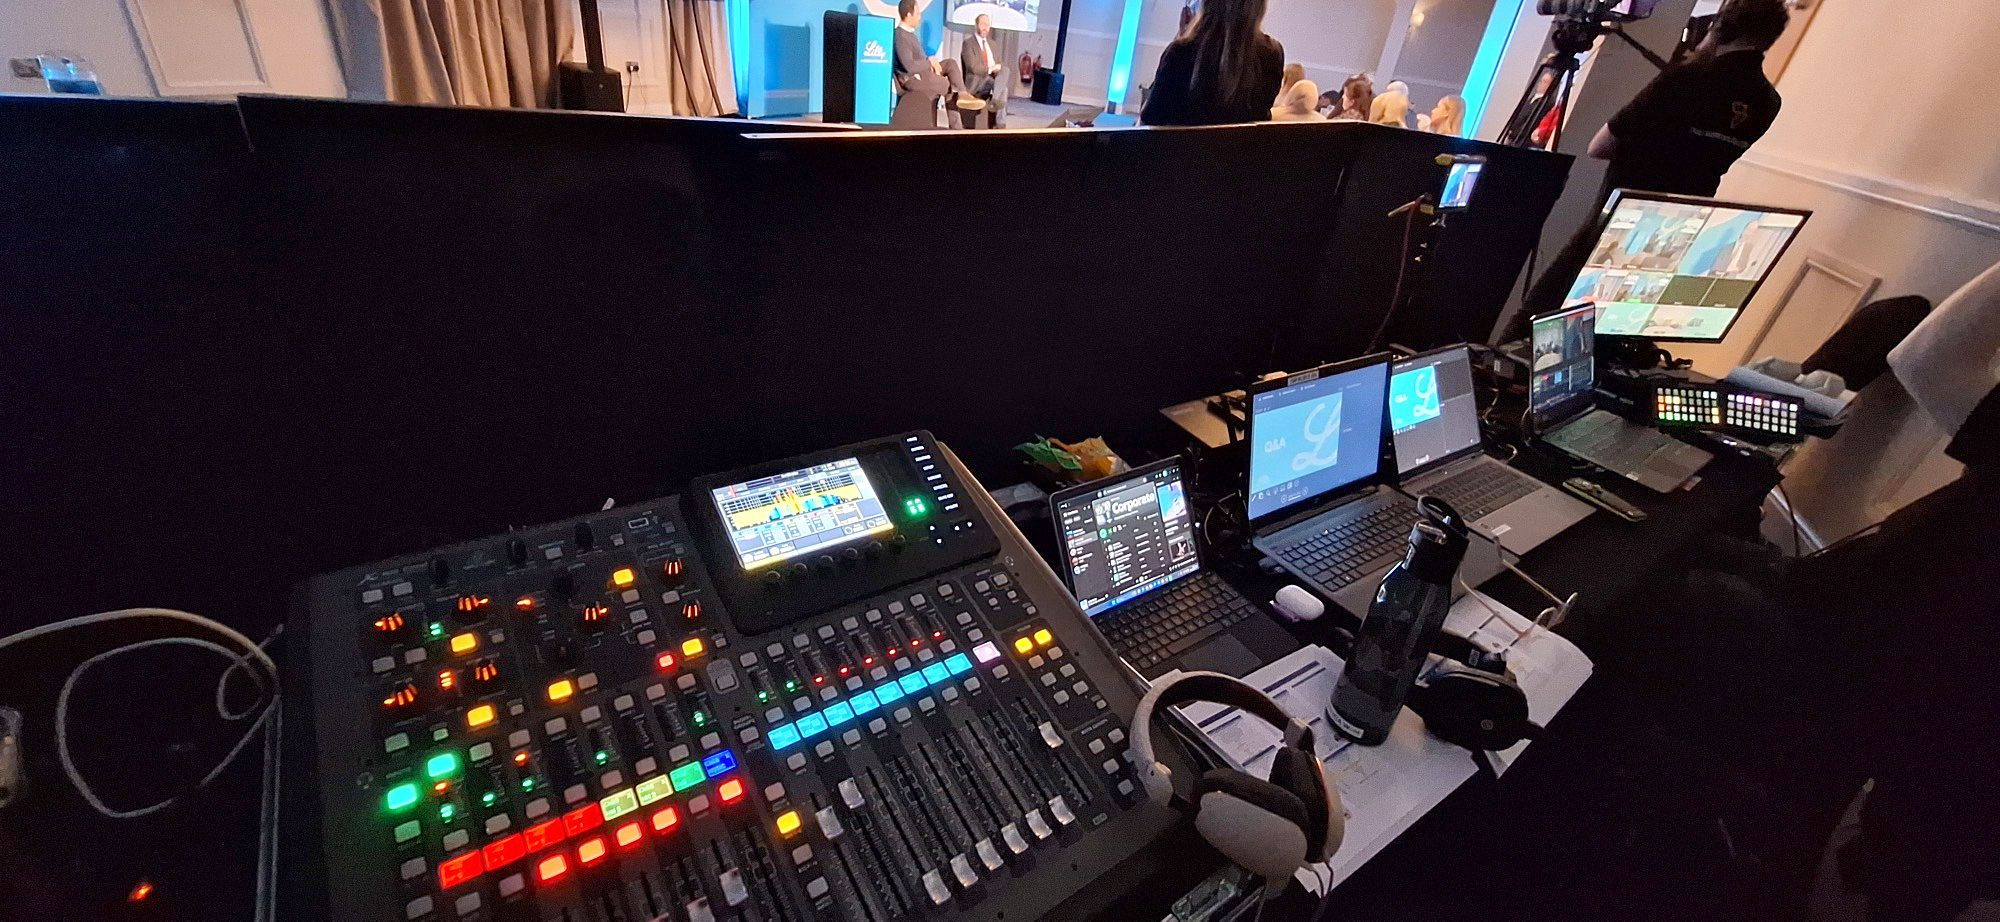
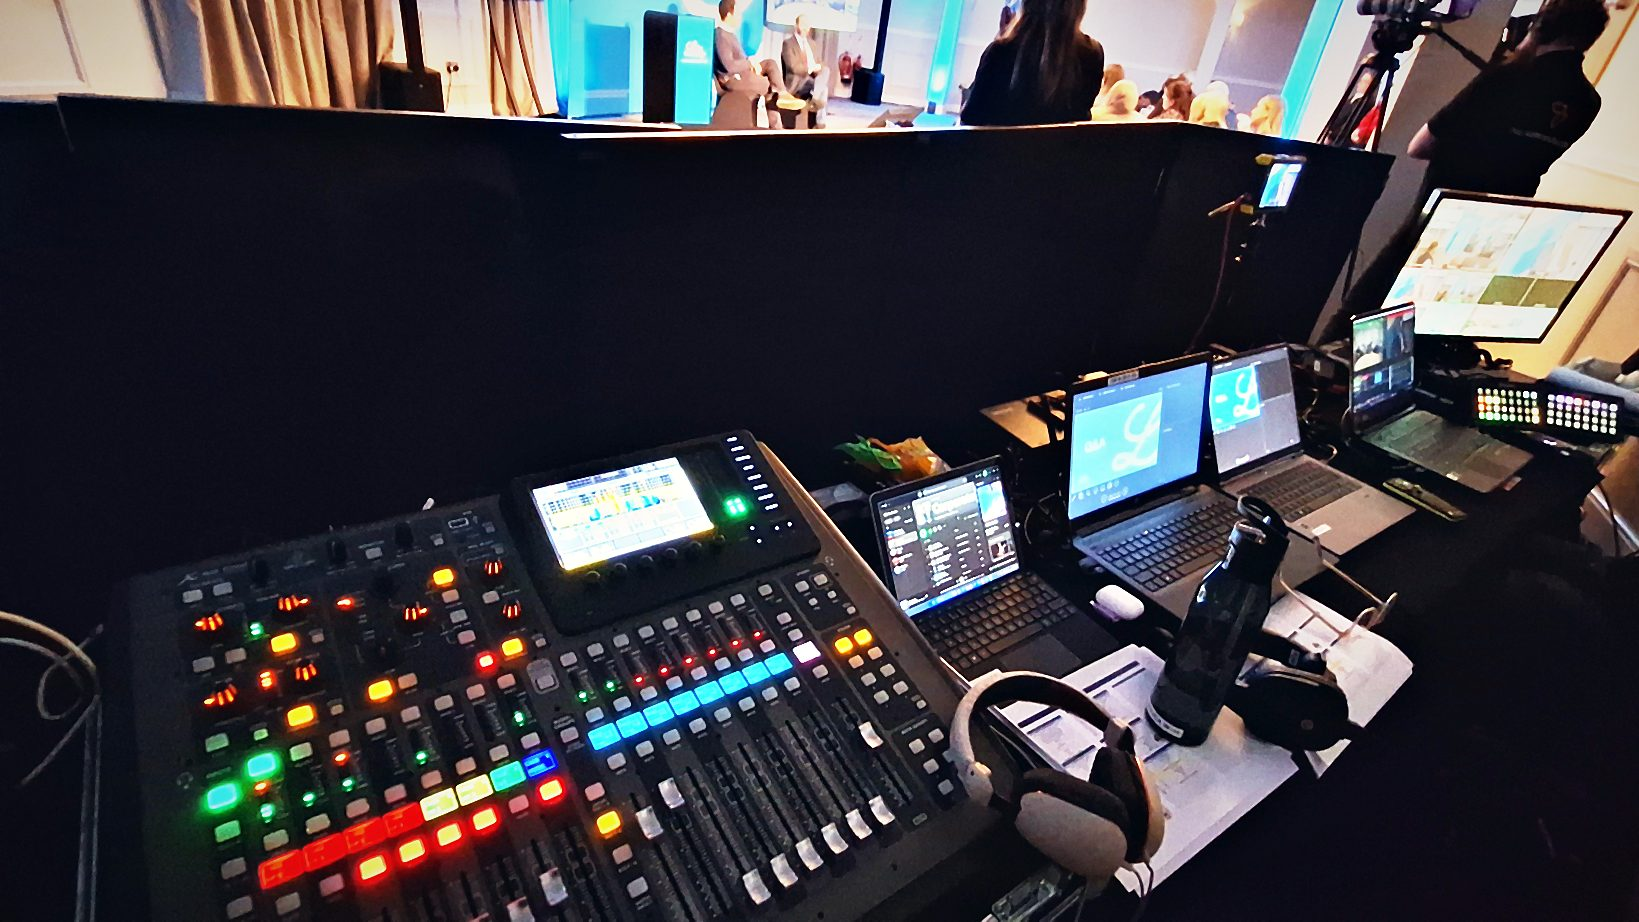
Home page preview: restore signature motion, consistent photo grade
- Particle sculpture (from the original hero) now flows over the photo
  into the HD Events sound wave; scroll aurora and sound ribbons between
  sections are back; Pause motion button; respects reduced motion.
- All photos re-graded with one house style (tools/photo-grade.py):
  neutral white balance, filmic curve, teal shadows, subtle vignette.

Claude-Session: https://claude.ai/code/session_016P7wNt6BcFjmMJ4gcje8kD

diff --git a/public/flair.js b/public/flair.js
@@ -1,0 +1,145 @@
+/* HD Events signature motion for the home page:
+   - the particle sculpture that flows into the HD Events sound wave (over the hero photo)
+   - the scroll aurora that paints light down the page
+   Both adapted from the original app.js. The sound ribbons between sections come from ribbons.js.
+   Respects "reduce motion" and the Pause motion button. */
+(() => {
+  const reduce = matchMedia('(prefers-reduced-motion: reduce)').matches;
+  let paused = reduce;
+  const smooth = x => { x = Math.max(0, Math.min(1, x)); return x * x * (3 - 2 * x); };
+  const mix = (a, b, t) => a + (b - a) * t;
+  const TAU = Math.PI * 2;
+
+  /* ---------- Hero particle sculpture (transparent, over the photo) ---------- */
+  const canvas = document.getElementById('heroWave');
+  const hero = document.querySelector('.hire-hero');
+  const ctx = canvas.getContext('2d');
+  let w, h, dpr, time = 0, elapsed = 0, heroVisible = true;
+  const pointer = { x: 0, y: 0 }, target = { x: 0, y: 0 };
+  const mobile = innerWidth < 800;
+  const COUNT = mobile ? 9000 : 22000;
+  const points = Array.from({ length: COUNT }, (_, i) => ({
+    u: ((i % 320) + Math.random() * .8) / 320 * TAU,
+    v: (Math.floor(i / 320) + Math.random() * .8) / Math.ceil(COUNT / 320) * TAU,
+    r: Math.random(), s: Math.random(),
+  }));
+  const colors = Array.from({ length: 12 }, (_, i) => { const p = i / 11; return `rgb(${Math.round(10 + 155 * p)},${Math.round(235 - 173 * p)},${Math.round(231 + 24 * p)})`; });
+
+  function resize() {
+    w = canvas.clientWidth; h = canvas.clientHeight;
+    dpr = Math.min(devicePixelRatio || 1, 1.6);
+    canvas.width = Math.floor(w * dpr); canvas.height = Math.floor(h * dpr);
+    ctx.setTransform(dpr, 0, 0, dpr, 0, 0);
+  }
+  resize(); addEventListener('resize', resize);
+  hero.addEventListener('pointermove', e => { target.x = (e.clientX / w - .5) * 2; target.y = (e.clientY / h - .5) * 2; });
+  hero.addEventListener('pointerleave', () => { target.x = target.y = 0; });
+
+  function draw() {
+    pointer.x += (target.x - pointer.x) * .04; pointer.y += (target.y - pointer.y) * .04;
+    ctx.clearRect(0, 0, w, h);
+    // Torus, then orbital ribbons, then liquid folds, settling into the flowing HD Events sound wave.
+    const t = reduce ? 16 : Math.min(elapsed, 16);
+    const saturn = smooth((t - 3) / 1.1) * (1 - smooth((t - 8) / 1.2));
+    const vortex = smooth((t - 8) / 1.2) * (1 - smooth((t - 13) / 1.2));
+    const wave = smooth((t - 13) / 1.3);
+    const scale = Math.min(w * (mobile ? .55 : .30), h * .42);
+    const cx = w * (mobile ? .55 : .70), cy = h * (mobile ? .40 : .46);
+    const rot = time * .74 + pointer.x * .3, tilt = .45 + Math.sin(time * .57) * .65 + pointer.y * .2;
+    const buckets = Array.from({ length: 36 }, () => []);
+    for (let i = 0; i < points.length; i++) {
+      const p = points[i], u = p.u, v = p.v;
+      const major = .64 + .11 * Math.sin(u * 3 + time * 1.15) + .04 * Math.cos(v + time), minor = .20 + .075 * Math.cos(u * 3 - time * 1.3 + v * .5);
+      let x = (major + minor * Math.cos(v)) * Math.cos(u), y = (major + minor * Math.cos(v)) * Math.sin(u), z = minor * Math.sin(v);
+      const radius = .62 + (v / TAU) * .48 + .035 * Math.sin(u * 3 + time * 1.3), angle = u + time * 1.65;
+      x = mix(x, radius * Math.cos(angle), saturn); y = mix(y, .045 * Math.sin(v * 3 + u * 2 + time), saturn); z = mix(z, radius * Math.sin(angle), saturn);
+      const fluidAngle = u + .28 * Math.sin(v + time * .8), fluidRadius = .72 + .20 * Math.cos(v + u * 2 - time);
+      x = mix(x, fluidRadius * Math.cos(fluidAngle), vortex); y = mix(y, .30 * Math.sin(u * 2 + time * 1.1) + .18 * Math.sin(v + u), vortex); z = mix(z, .57 * Math.sin(fluidAngle) + .23 * Math.cos(v + u * 2 + time), vortex);
+      let yy = y * Math.cos(tilt) - z * Math.sin(tilt); z = y * Math.sin(tilt) + z * Math.cos(tilt); y = yy;
+      let xx = x * Math.cos(rot) + z * Math.sin(rot); z = -x * Math.sin(rot) + z * Math.cos(rot); x = xx;
+      const wx = (u / TAU - .5) * 3.2, wy = Math.sin(u * 1.6 - time * 1.25 + v * .15) * .3 + Math.cos(v) * .13, wz = Math.sin(v) * .25 + Math.sin(u * 2 - time * .6) * .2;
+      x = mix(x, wx, wave); y = mix(y, wy, wave); z = mix(z, wz, wave);
+      const perspective = 3 / (3 - z);
+      const px = cx + x * scale * perspective, py = cy + y * scale * perspective;
+      const depth = Math.max(0, Math.min(2, Math.floor((z + .6) * 2)));
+      const col = Math.round(((Math.sin(u + v * .22 + time * .4) + 1) / 2) * 11);
+      buckets[depth * 12 + col].push(px, py, (mobile ? .38 : .40) + perspective * .22 + p.r * .23);
+    }
+    for (let d = 0; d < 3; d++) for (let c = 0; c < 12; c++) {
+      const b = buckets[d * 12 + c]; if (!b.length) continue;
+      ctx.fillStyle = colors[c]; ctx.globalAlpha = Math.min(1, .78 + d * .1);
+      ctx.beginPath();
+      for (let k = 0; k < b.length; k += 3) { const size = b[k + 2] * 1.8; ctx.rect(b[k], b[k + 1], size, size); }
+      ctx.fill();
+    }
+    ctx.globalAlpha = 1;
+  }
+  new IntersectionObserver(es => heroVisible = es[0].isIntersecting, { threshold: 0 }).observe(hero);
+
+  /* ---------- Scroll aurora (from the original app.js) ---------- */
+  const aurora = document.getElementById('aurora'), ac = aurora.getContext('2d');
+  let aw, ah, previousScroll = scrollY, auroraPhase = 0, hasScrolled = false, headPage = scrollY + innerHeight * .48, stretch = 0, scrollEnergy = .4, direction = 1, trailClock = 0;
+  const smoke = [];
+  function sizeAurora() { aw = innerWidth; ah = innerHeight; aurora.width = Math.round(aw * .6); aurora.height = Math.round(ah * .6); ac.setTransform(.6, 0, 0, .6, 0, 0); }
+  sizeAurora(); addEventListener('resize', sizeAurora);
+  function paintRibbon(base, phase, extension, opacity, smoky = false) {
+    if (opacity < .002 || base + Math.abs(extension) < -ah || base - Math.abs(extension) > ah * 2) return;
+    for (let strand = 0; strand < (smoky ? 6 : 14); strand++) {
+      const n = smoky ? 6 : 14, spread = (strand / n - .5) * (smoky ? ah * .12 : ah * .055);
+      const gradient = ac.createLinearGradient(0, base - ah * .3, aw, base + ah * .4);
+      gradient.addColorStop(0, 'rgba(0,240,170,0)'); gradient.addColorStop(.22, `rgba(0,235,163,${opacity * .060})`);
+      gradient.addColorStop(.5, `rgba(0,201,232,${opacity * .085})`); gradient.addColorStop(.79, `rgba(145,51,248,${opacity * .085})`);
+      gradient.addColorStop(1, 'rgba(123,30,246,0)');
+      ac.strokeStyle = gradient; ac.lineWidth = smoky ? ah * .085 : 12 + strand * 1.8; ac.beginPath();
+      for (let k = 0; k <= 64; k++) {
+        const x = k / 64 * aw, curve = Math.sin(k / 64 * 5 + phase);
+        const y = base + curve * ah * .18 + Math.sin(k / 64 * 9 - phase * .6) * ah * .055 + spread + extension * Math.pow((curve + 1) * .5, 1.5);
+        if (k === 0) ac.moveTo(x, y); else ac.lineTo(x, y);
+      }
+      ac.stroke();
+    }
+  }
+  function drawAurora(dt = .033) {
+    const delta = scrollY - previousScroll; previousScroll = scrollY; const moving = Math.abs(delta) > .15;
+    ac.clearRect(0, 0, aw, ah); ac.globalCompositeOperation = 'lighter';
+    if (moving) {
+      hasScrolled = true; direction = Math.sign(delta); auroraPhase += delta * .002;
+      headPage = scrollY + ah * (direction > 0 ? .60 : .36);
+      stretch = mix(stretch, direction * Math.min(ah * .65, Math.abs(delta) * 8), .35);
+      scrollEnergy = Math.min(1, scrollEnergy + Math.abs(delta) * .02); trailClock += dt;
+      if (trailClock > .045) { smoke.push({ page: headPage, phase: auroraPhase, stretch, age: 0, strength: scrollEnergy }); trailClock = 0; if (smoke.length > 28) smoke.shift(); }
+    } else { scrollEnergy *= Math.exp(-dt * 1.8); if (!hasScrolled) { auroraPhase += dt * .10; scrollEnergy = .45; } }
+    for (let i = smoke.length - 1; i >= 0; i--) {
+      const puff = smoke[i]; puff.age += dt; if (puff.age > 2.8) { smoke.splice(i, 1); continue; }
+      paintRibbon(puff.page - scrollY, puff.phase, puff.stretch, Math.pow(1 - puff.age / 2.8, 2) * puff.strength * .60, true);
+    }
+    paintRibbon(headPage - scrollY, auroraPhase, stretch, hasScrolled ? scrollEnergy : .55);
+    if (!hasScrolled) paintRibbon(ah * .82, auroraPhase + 2.1, -ah * .2, .25);
+    ac.globalCompositeOperation = 'source-over';
+  }
+
+  /* ---------- One clock for both ---------- */
+  let last = 0, lastPaint = 0;
+  function frame(now) {
+    if (!last) last = now;
+    const delta = Math.min((now - last) / 1000, .1);
+    if (!paused) {
+      time += delta; elapsed += delta;
+      if (now - lastPaint > 30) { if (heroVisible) draw(); drawAurora(Math.min(.1, (now - lastPaint) / 1000)); lastPaint = now; }
+    }
+    last = now; requestAnimationFrame(frame);
+  }
+  draw(); drawAurora(); requestAnimationFrame(frame);
+  addEventListener('scroll', () => { if (paused) drawAurora(); }, { passive: true });
+
+  /* ---------- Pause motion ---------- */
+  const toggle = document.getElementById('motion');
+  function setMotion() {
+    toggle.setAttribute('aria-pressed', String(paused));
+    toggle.innerHTML = paused ? '▶ <span>PLAY MOTION</span>' : 'Ⅱ <span>PAUSE MOTION</span>';
+    toggle.setAttribute('aria-label', paused ? 'Play animation' : 'Pause animation');
+    document.body.classList.toggle('paused', paused);
+  }
+  setMotion();
+  toggle.addEventListener('click', () => { paused = !paused; setMotion(); if (paused) draw(); });
+})();

diff --git a/public/index.html b/public/index.html
@@ -15,6 +15,7 @@
 <link rel="stylesheet" href="home.css">
 </head>
 <body class="home">
+<canvas id="aurora" aria-hidden="true"></canvas>
 <a class="skip" href="#main">Skip to content</a>
 
 <header>
@@ -37,6 +38,8 @@
     <div class="hero-media" aria-hidden="true">
       <img src="assets/live-audience.jpg" alt="">
     </div>
+    <canvas id="heroWave" aria-hidden="true"></canvas>
+    <button id="motion" class="motion-toggle" aria-pressed="false" aria-label="Pause animation">Ⅱ <span>PAUSE MOTION</span></button>
     <div class="hero-inner">
       <p class="eyebrow"><i></i> CORPORATE AV HIRE · LONDON</p>
       <h1 id="hero-title">Every word,<br><span>heard.</span></h1>
@@ -62,6 +65,8 @@
     </ul>
     <p class="client-logos placeholder" data-note="Client and venue logos you're happy to show">Trusted by teams at …</p>
   </section>
+
+  <div class="ribbon-divider" data-ribbon="0" aria-hidden="true"><canvas></canvas></div>
 
   <!-- 2b. What we supply -->
   <section class="supply" id="supply" aria-labelledby="supply-title">
@@ -118,6 +123,8 @@
     </div>
   </section>
 
+  <div class="ribbon-divider" data-ribbon="1" aria-hidden="true"><canvas></canvas></div>
+
   <!-- 3b. Lecterns -->
   <section class="lectern-feature" id="lecterns" aria-labelledby="lecterns-title">
     <div class="lectern-photo placeholder" data-note="Photo: your bespoke or branded lectern"></div>
@@ -164,6 +171,8 @@
     </div>
   </section>
 
+  <div class="ribbon-divider" data-ribbon="2" aria-hidden="true"><canvas></canvas></div>
+
   <!-- 6. How it works -->
   <section class="steps" aria-labelledby="steps-title">
     <div class="section-intro">
@@ -196,6 +205,7 @@
 
   <!-- 8. Closing -->
   <section class="closing" id="contact">
+    <div class="sound-ribbon" data-ribbon="3" aria-hidden="true"><canvas></canvas></div>
     <div class="eyebrow"><i></i> YOUR NEXT EVENT STARTS HERE</div>
     <h2>Let’s make sure<br><span>every word lands.</span></h2>
     <div class="closing-bottom">
@@ -211,5 +221,7 @@
 <dialog id="enquiry"><div class="dialog-head"><h2>Tell us about your event.</h2><button id="close-enquiry" aria-label="Close enquiry form">×</button></div><p>Start a conversation with HD Events.</p><iframe title="HD Events enquiry form" name="lc_contact_form" width="100%" height="600" src="https://676968.17hats.com/p#/embed/krssknhxgstpsxdddgbvbkxnfgbbfvtz" loading="lazy"></iframe><div class="dialog-contact"><a href="https://wa.me/447930547024" target="_blank" rel="noopener">WhatsApp us: +44 7930 547024 ↗</a><a href="tel:+447930547024">Call +44 7930 547024</a><a href="mailto:hello@hd-events.co.uk">Email hello@hd-events.co.uk ↗</a></div></dialog>
 <script src="contact.js"></script>
 <script src="home.js"></script>
+<script src="ribbons.js"></script>
+<script src="flair.js"></script>
 </body>
 </html>

diff --git a/public/home.css b/public/home.css
@@ -23,6 +23,16 @@
 .button.solid { background: var(--white); color: var(--black); border-color: var(--white); }
 .button.solid:hover { background: var(--cyan); border-color: var(--cyan); }
 
+/* Signature motion: particle sculpture over the hero photo, pause button, ribbon strips */
+#heroWave { position: absolute; inset: 0; width: 100%; height: 100%; z-index: 1; pointer-events: none; mix-blend-mode: screen;
+  /* fade the particles out behind the headline and text on the left */
+  -webkit-mask-image: linear-gradient(90deg, transparent 0%, transparent 22%, #0008 42%, #000 62%); mask-image: linear-gradient(90deg, transparent 0%, transparent 22%, #0008 42%, #000 62%); }
+.hire-hero .hero-inner { z-index: 2; }
+.motion-toggle { position: absolute; right: 6%; bottom: 34px; z-index: 3; background: none; border: 0; color: #c9c9d4; font: 500 11px 'DM Sans', Arial, sans-serif; letter-spacing: 2px; cursor: pointer; padding: 8px 0; }
+.motion-toggle:hover { color: var(--cyan); }
+.ribbon-divider { position: relative; height: clamp(200px, 22vw, 320px); overflow: hidden; pointer-events: none; background: radial-gradient(ellipse at 67% 60%, #17103655, transparent 65%); }
+.ribbon-divider canvas { display: block; position: absolute; inset: 0; width: 100%; height: 100%; }
+
 /* 2. Brands and promises */
 .brands { padding: 46px 6% 56px; border-top: 1px solid #ffffff14; border-bottom: 1px solid #ffffff14; background: #08090e; }
 .brand-row { list-style: none; padding: 0; margin: 22px 0 40px; display: flex; flex-wrap: wrap; justify-content: space-between; gap: 18px 40px; }
@@ -126,7 +136,10 @@
 }
 /* Phone */
 @media (max-width: 700px) {
-  .hire-hero { padding: 130px 22px 56px; }
+  .hire-hero { padding: 130px 22px 70px; }
+  #heroWave { opacity: .4; -webkit-mask-image: linear-gradient(180deg, #000 0%, #000 18%, #0004 32%, #0002 70%, transparent 85%); mask-image: linear-gradient(180deg, #000 0%, #000 18%, #0004 32%, #0002 70%, transparent 85%); }
+  .motion-toggle { right: 22px; bottom: 18px; }
+  .ribbon-divider { height: 170px; }
   .home .hire-hero h1 { font-size: clamp(44px, 12.5vw, 64px); }
   .packages, .kit, .work-gallery, .steps, .more-services, .supply, .lectern-feature { padding: 72px 22px; }
   .hire-hero.corporate .hero-media img { object-position: 60% 30%; }

diff --git a/tools/photo-grade.py b/tools/photo-grade.py
@@ -1,0 +1,97 @@
+"""HD Events house photo style: consistent, 'shot by a photographer' grade for every website photo.
+
+Steps: neutral white balance -> exposure normalised to a target -> filmic S-curve with lifted blacks
+-> cool-teal shadows / clean warm highlights (matches the cyan/purple brand) -> vibrance -> local
+clarity -> soft vignette -> sharpen -> crop to a standard ratio -> resize & compress for the web.
+
+Usage: python3 grade.py SRC OUT [--ratio 16:9|3:2|4:3|1:1|4:5|none] [--width 2000]
+                         [--crop x0,y0,x1,y1] [--focus 0.5,0.5] [--exposure +0.1] [--wb 0..1]
+"""
+import argparse
+import numpy as np
+from PIL import Image, ImageFilter, ImageOps
+
+p = argparse.ArgumentParser()
+p.add_argument('src'); p.add_argument('out')
+p.add_argument('--ratio', default='none')
+p.add_argument('--width', type=int, default=2000)
+p.add_argument('--crop', default=None, help='manual crop x0,y0,x1,y1 in source pixels (before ratio crop)')
+p.add_argument('--focus', default='0.5,0.5', help='where to keep when cropping to the ratio')
+p.add_argument('--exposure', type=float, default=0.0, help='extra exposure in stops')
+p.add_argument('--wb', type=float, default=0.6, help='white-balance correction strength 0..1')
+p.add_argument('--target', type=float, default=0.42, help='target mid-tone brightness 0..1')
+a = p.parse_args()
+
+im = ImageOps.exif_transpose(Image.open(a.src)).convert('RGB')
+if a.crop:
+    im = im.crop(tuple(int(v) for v in a.crop.split(',')))
+
+# Crop to a standard ratio around the focus point.
+if a.ratio != 'none':
+    rw, rh = (float(v) for v in a.ratio.split(':'))
+    fx, fy = (float(v) for v in a.focus.split(','))
+    W, H = im.size
+    if W / H > rw / rh:
+        nw = round(H * rw / rh); x0 = min(max(0, round(fx * W - nw / 2)), W - nw); im = im.crop((x0, 0, x0 + nw, H))
+    else:
+        nh = round(W * rh / rw); y0 = min(max(0, round(fy * H - nh / 2)), H - nh); im = im.crop((0, y0, W, y0 + nh))
+if im.width > a.width:
+    im = im.resize((a.width, round(im.height * a.width / im.width)), Image.LANCZOS)
+
+x = np.asarray(im).astype(np.float32) / 255.0
+lin = x ** 2.2
+
+# 1. Neutral white balance (grey-world on mid-tones, partially applied so stage colour survives).
+lum = lin @ np.array([.2126, .7152, .0722], np.float32)
+mask = (lum > .02) & (lum < .6)
+if mask.sum() > 1000:
+    means = lin[mask].mean(axis=0)
+    gains = means.mean() / np.maximum(means, 1e-4)
+    gains = 1 + (gains - 1) * a.wb
+    lin = lin * gains
+# 2. Exposure: bring the median brightness towards a common target, within limits.
+lum = lin @ np.array([.2126, .7152, .0722], np.float32)
+med = float(np.median(lum)) ** (1 / 2.2)
+stops = np.clip(np.log2(max(a.target, 1e-3) / max(med, 1e-3)) * 1.3, -0.7, 1.3) + a.exposure
+lin = lin * (2 ** stops)
+x = np.clip(lin, 0, None) ** (1 / 2.2)
+# Highlight roll-off so brightened lights don't clip harshly.
+x = np.where(x > .8, .8 + (1 - np.exp(-(x - .8) / .2)) * .2, x)
+
+# 3. Filmic S-curve with lifted blacks and soft whites.
+def curve(v):
+    s = v * v * (3 - 2 * v)              # smoothstep contrast
+    v = v * .55 + s * .45
+    return .035 + v * (.975 - .035)       # lifted black point, soft white point
+x = curve(np.clip(x, 0, 1))
+
+# 4. Split tone: cool teal in the shadows, clean slightly warm highlights.
+lum = x @ np.array([.2126, .7152, .0722], np.float32)
+sh = np.clip(1 - lum / .45, 0, 1)[..., None] ** 1.5
+hi = np.clip((lum - .6) / .4, 0, 1)[..., None]
+x = x + sh * np.array([-.012, .012, .03], np.float32) + hi * np.array([.012, .005, -.008], np.float32)
+
+# 5. Vibrance: lift muted colours more than already-saturated ones.
+mean = x.mean(axis=2, keepdims=True)
+sat = x.max(axis=2, keepdims=True) - x.min(axis=2, keepdims=True)
+x = mean + (x - mean) * (1 + .28 * (1 - np.clip(sat * 2, 0, 1)))
+
+x = np.clip(x, 0, 1)
+im = Image.fromarray((x * 255 + .5).astype(np.uint8))
+# Brightened low-light shots get gentle noise reduction so grain doesn't show.
+if stops > .6:
+    im = Image.blend(im, im.filter(ImageFilter.MedianFilter(3)), min(.8, (stops - .6) * 1.2))
+
+# 6. Clarity (large-radius local contrast) and a soft vignette.
+im = im.filter(ImageFilter.UnsharpMask(radius=max(20, im.width // 60), percent=8, threshold=4))
+W, H = im.size
+yy, xx = np.mgrid[0:H, 0:W].astype(np.float32)
+d = np.sqrt(((xx - W / 2) / (W / 2)) ** 2 + ((yy - H / 2) / (H / 2)) ** 2)
+vig = 1 - .22 * np.clip((d - .55) / .85, 0, 1) ** 1.6
+x = np.asarray(im).astype(np.float32) * vig[..., None]
+im = Image.fromarray(np.clip(x, 0, 255).astype(np.uint8))
+
+# 7. Output sharpening for the web, then save.
+im = im.filter(ImageFilter.UnsharpMask(radius=1.0, percent=55, threshold=4))
+im.save(a.out, 'JPEG', quality=82, optimize=True, progressive=True, subsampling='4:2:0')
+print(f'{a.out}: {im.size[0]}x{im.size[1]}, exposure {stops:+.2f} stops')
